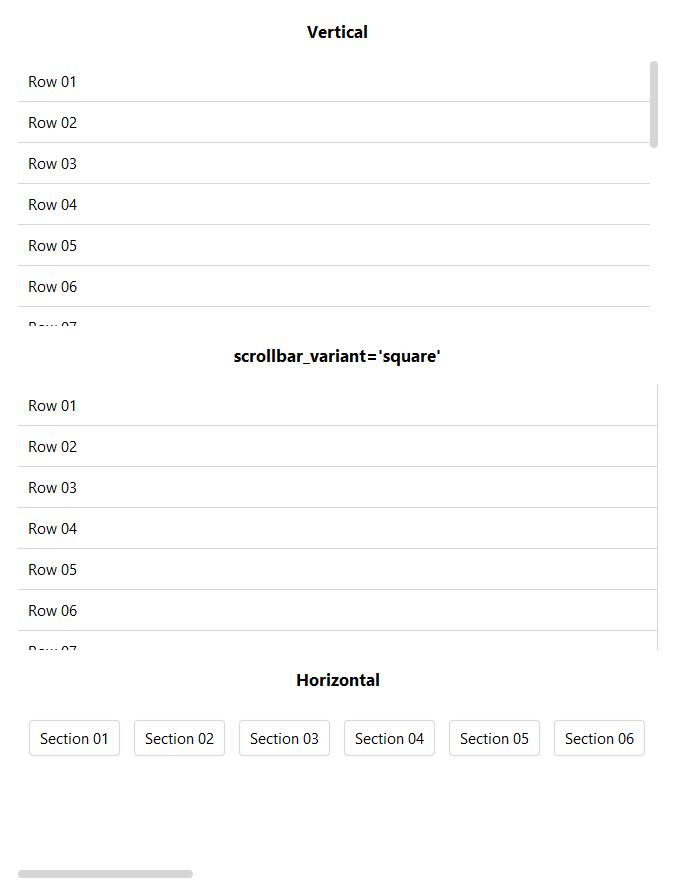
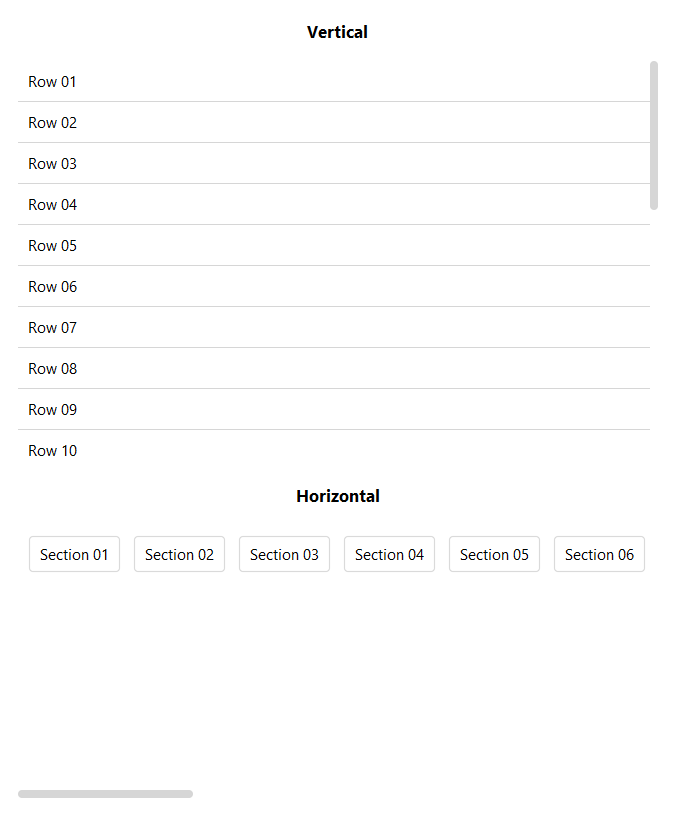
fix(scrollview): remove scrollbar_variant from public API
No meaningful scrollbar variants exist — remove the parameter from
the public wrapper, docstring, example, and RST usage section.

diff --git a/docs/examples/scrollview.py b/docs/examples/scrollview.py
@@ -1,6 +1,6 @@
 import bootstack as bs
 
-with bs.App(title="ScrollView", size=(680, 900), padding=20, gap=16) as app:
+with bs.App(title="ScrollView", size=(680, 820), padding=20, gap=16) as app:
 
     # ── Vertical scroll ────────────────────────────────────────────────────
     with bs.VStack(fill="x", gap=0):
@@ -8,18 +8,7 @@ with bs.App(title="ScrollView", size=(680, 900), padding=20, gap=16) as app:
 
     with bs.ScrollView(scroll_direction="vertical", scrollbar_visibility="always",
                        fill="both", expand=True):
-        for i in range(1, 24):
-            with bs.HStack(fill="x", padding=8):
-                bs.Label(f"Row {i:02d}")
-            bs.Separator(fill="x")
-
-    # ── Square scrollbar variant ───────────────────────────────────────────
-    with bs.VStack(fill="x", gap=0):
-        bs.Label("scrollbar_variant='square'", font="heading-md")
-
-    with bs.ScrollView(scroll_direction="vertical", scrollbar_visibility="always",
-                       scrollbar_variant="square", fill="both", expand=True):
-        for i in range(1, 24):
+        for i in range(1, 30):
             with bs.HStack(fill="x", padding=8):
                 bs.Label(f"Row {i:02d}")
             bs.Separator(fill="x")

diff --git a/src/bootstack/widgets/scrollview.py b/src/bootstack/widgets/scrollview.py
@@ -22,9 +22,6 @@ class ScrollView(PublicContainer):
             (auto-hides after `autohide_delay` ms of inactivity).
         autohide_delay: Milliseconds before scrollbars hide in `'scroll'` mode.
             Default `1000`.
-        scrollbar_variant: Style variant applied to both scrollbars.
-            ``'default'`` for a rounded thumb (default), ``'square'`` for a
-            flat rectangular thumb.
         parent: Override the context-stack parent.
     """
 
@@ -34,7 +31,6 @@ class ScrollView(PublicContainer):
         scroll_direction: Literal["vertical", "horizontal", "both"] = "both",
         scrollbar_visibility: Literal["always", "never", "hover", "scroll"] = "always",
         autohide_delay: int = 1000,
-        scrollbar_variant: str = "default",
         parent: Any = None,
         **kwargs: Any,
     ) -> None:
@@ -46,7 +42,6 @@ class ScrollView(PublicContainer):
             "scroll_direction": scroll_direction,
             "scrollbar_visibility": scrollbar_visibility,
             "autohide_delay": autohide_delay,
-            "scrollbar_variant": scrollbar_variant,
         }
         internal_kwargs.update(kwargs)
 

diff --git a/docs/api/scrollview.rst b/docs/api/scrollview.rst
@@ -104,19 +104,6 @@ Scrollbar visibility
    # Scrollbar appears during scroll, hides after 1.5 s
    bs.ScrollView(scrollbar_visibility="scroll", autohide_delay=1500)
 
-Scrollbar variant
-~~~~~~~~~~~~~~~~~
-
-``scrollbar_variant=`` controls the thumb shape on both scrollbars.
-
-.. code-block:: python
-
-   # Rounded thumb (default)
-   bs.ScrollView(scrollbar_variant="default")
-
-   # Flat rectangular thumb
-   bs.ScrollView(scrollbar_variant="square")
-
 Programmatic scroll control
 ~~~~~~~~~~~~~~~~~~~~~~~~~~~
 